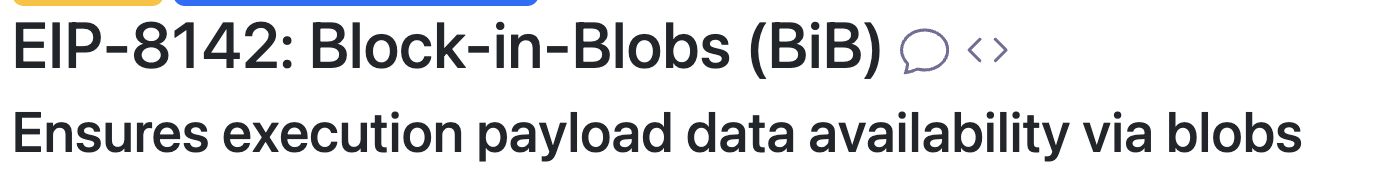
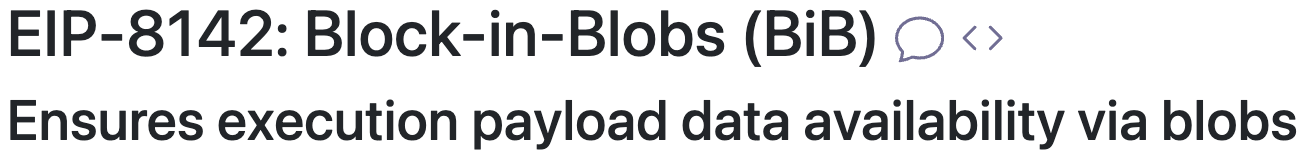
Let the BiB slide be just the EIP title and abstract
Crop the badge strip off the title screenshot and drop the two boxes below.

Changed region(s): [[0.0, 0.0, 0.7663, 0.4557], [0.0, 0.6329, 1.0, 0.962], [0.3678, 0.0759, 0.3985, 0.1013]]

diff --git a/presentations/lean-da-da-fast-2026-10-13/slides.md b/presentations/lean-da-da-fast-2026-10-13/slides.md
@@ -451,8 +451,6 @@ Run: <code>cargo run --release -p lean-da -- --construction column-commit --n-bl
 
 ---
 
-<!-- _class: tight -->
-
 ## BiB — Block-in-Blobs
 
 <div class="shot">
@@ -464,26 +462,6 @@ Run: <code>cargo run --release -p lean-da -- --construction column-commit --n-bl
 <div class="shot">
 
 ![EIP-8142 abstract](assets/bib-eip-abstract.png)
-
-</div>
-
-<div class="grid">
-
-<div>
-
-**What this reopens:** how RPCs and indexers access block data, how archival nodes serve historical execution data, transaction inclusion proofs, light-client proof generation, and the boundary between consensus-persisted and blob-reconstructed data.
-
-</div>
-
-<div>
-
-<div class="counter">
-
-**Position:** blocks-from-blobs should not be the primary source of truth for execution data. There has to be a clear boundary for data alignment between the consensus and execution layers, and "reconstruct it from blobs" does not draw one.
-
-</div>
-
-</div>
 
 </div>
 
